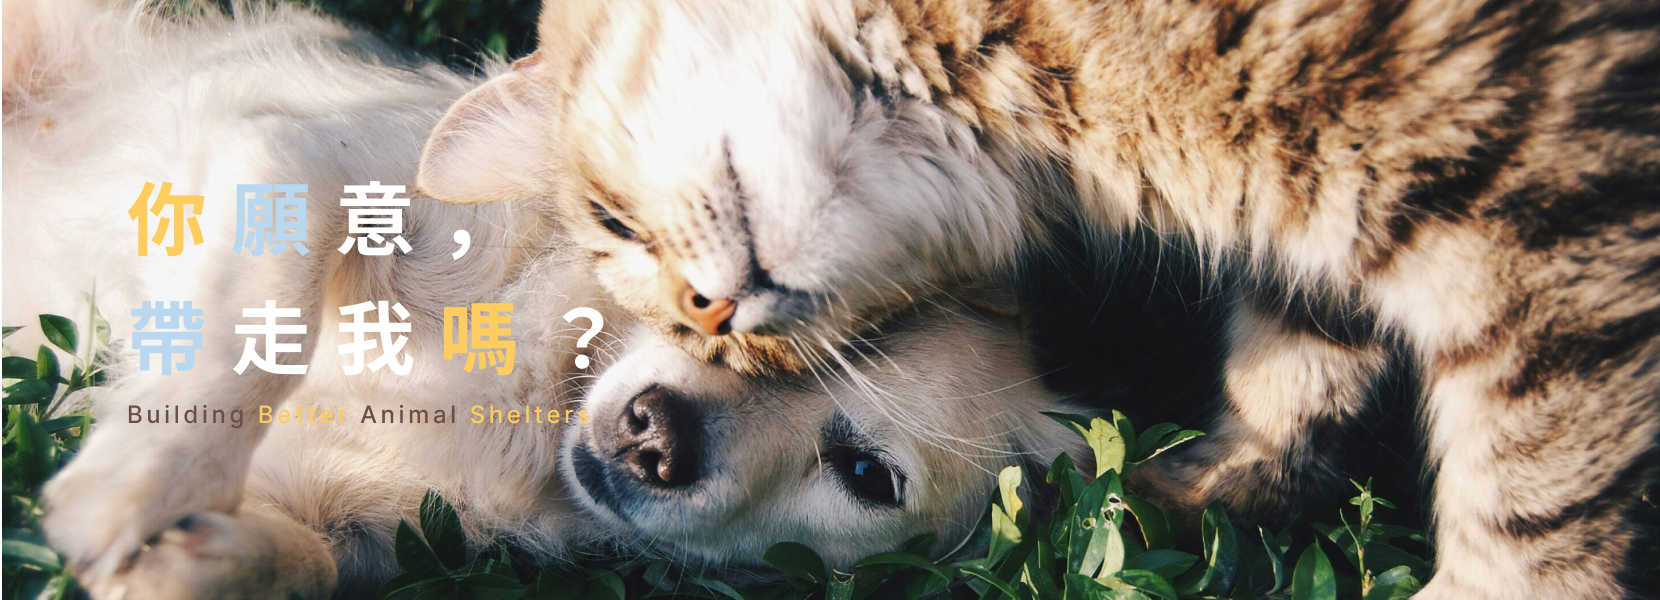
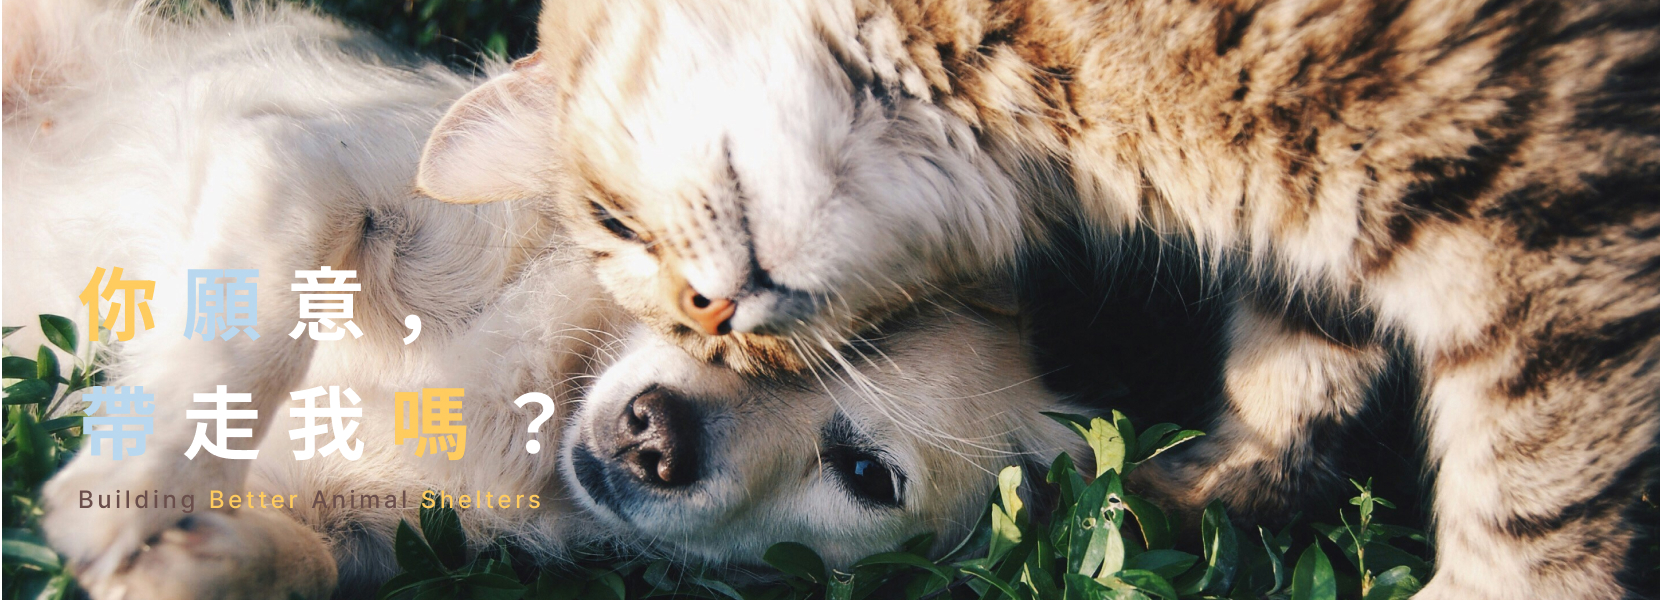
輪播更新

diff --git a/public/index.html b/public/index.html
@@ -4,6 +4,7 @@
 <head>
   <meta charset="UTF-8">
   <meta name="viewport" content="width=device-width, initial-scale=1.0">
+  <link rel="stylesheet" href="https://cdn.jsdelivr.net/npm/swiper@11/swiper-bundle.min.css" />
   <link rel="stylesheet" href="https://maxcdn.bootstrapcdn.com/bootstrap/3.3.6/css/bootstrap.min.css"
     integrity="sha384-1q8mTJOASx8j1Au+a5WDVnPi2lkFfwwEAa8hDDdjZlpLegxhjVME1fgjWPGmkzs7" crossorigin="anonymous">
   <script src="https://ajax.googleapis.com/ajax/libs/jquery/1.11.1/jquery.min.js"></script>
@@ -21,6 +22,7 @@
   <link rel="stylesheet" href="/css/index-commend.css">
   <link rel="stylesheet" href="../css/index_service.css">
   <link rel="stylesheet" href="../css/carousel.css">
+  <link rel="stylesheet" href="../css/carousel2.css">
   <title>首頁</title>
 </head>
 
@@ -136,81 +138,23 @@
       </div>
     </nav>
   </header>
-<<<<<<< HEAD
- <!-- 輪播carousel-->
- <div id="myCarousel" class="carousel slide myCarousel w-auto carousel-img p-0" data-interval="false" data-ride="carousel">
-  <h1></h1>
-  <ol class="carousel-indicators ">
-    <li data-target="#myCarousel" data-slide-to="0" class="active first"></li>
-    <li data-target="#myCarousel" class="first" data-slide-to="1"></li>
-    <li data-target="#myCarousel"  class="first" data-slide-to="2"></li>
-  </ol>
-  <!-- Carousel items -->
-  <div class="carousel-inner">
-    <div class="active item">
-      <!--put img inside itens like this-->
-      <img src="../images/Group 8988.jpg" alt="...">
-      <div class="container">
-        <div class="carousel-caption">
-        </div>
-      </div>
-    </div>
-    <div class="item">
-      <img src="../images/Group 8988.jpg" alt="...">
-      <div class="container">
-        <div class="carousel-caption">
-        </div>
-      </div>
-    </div>
-    <div class="item">
-      <img src="../images/Group 8988.jpg" alt="...">
-      <div class="container">
-        <div class="carousel-caption">
-=======
   <!-- 輪播carousel-->
-  <div id="myCarousel" class="carousel slide myCarousel w-auto carousel-img p-0" data-interval="false"
-    data-ride="carousel">
-    <ol class="carousel-indicators ">
-      <li data-target="#myCarousel" data-slide-to="0" class="active first"></li>
-      <li data-target="#myCarousel" class="first" data-slide-to="1"></li>
-      <li data-target="#myCarousel" class="first" data-slide-to="2"></li>
-    </ol>
-    <!-- Carousel items -->
-    <div class="carousel-inner">
-      <div class="active item">
-        <!--put img inside itens like this-->
-        <img src="../images/Rectangle 4491.jpg" alt="...">
-        <div class="container">
-          <div class="carousel-caption">
-          </div>
+  <section id="carousel">
+    <div class="body">
+      <div class="swiper mySwiper">
+        <div class="swiper-wrapper">
+          <div class="swiper-slide"><img src="/images/Group 8988.jpg" alt=""></div>
+          <div class="swiper-slide"><img src="/images/Group 8988.jpg" alt=""></div>
+          <div class="swiper-slide"><img src="/images/Group 8988.jpg" alt=""></div>
+          <div class="swiper-slide"><img src="/images/Group 8988.jpg" alt=""></div>
+          <div class="swiper-slide"><img src="/images/Group 8988.jpg" alt=""></div>
         </div>
-      </div>
-      <div class="item">
-        <img src="../images/Rectangle 4491.jpg" alt="...">
-        <div class="container">
-          <div class="carousel-caption">
-          </div>
-        </div>
-      </div>
-      <div class="item">
-        <img src="../images/Rectangle 4491.jpg" alt="...">
-        <div class="container">
-          <div class="carousel-caption">
-          </div>
->>>>>>> 6e6a1c55efd95baf8796197c42237851f612e3e8
-        </div>
+        <div class="swiper-button swiper-button-next"></div>
+        <div class="swiper-button swiper-button-prev"></div>
+        <div class="swiper-pagination"></div>
       </div>
     </div>
-    <hr class="transition-timer-carousel-progress-bar" />
-    <a class="bar-left carousel-control" href="#myCarousel" role="button" data-slide="prev">
-      <span class="glyphicon glyphicon-chevron-left" aria-hidden="true"></span>
-      <span class="sr-only">Previous</span>
-    </a>
-    <a class="right carousel-control" href="#myCarousel" role="button" data-slide="next">
-      <span class="glyphicon glyphicon-chevron-right" aria-hidden="true"></span>
-      <span class="sr-only">Next</span>
-    </a>
-  </div>
+  </section>
   <!-- 服務項目 Service-->
   <section>
     <div class="container_card">
@@ -801,7 +745,8 @@
           <hr class="footerHr">
           <ol class="icon justify-content-center  ">
             <li>
-              <a href="https://www.facebook.com/profile.php?id=100090898966387" class="footerLink justify-content-center">
+              <a href="https://www.facebook.com/profile.php?id=100090898966387"
+                class="footerLink justify-content-center">
                 <svg xmlns="http://www.w3.org/2000/svg"
                   viewBox="0 0 512 512"><!--!Font Awesome Free 6.5.2 by @fontawesome - https://fontawesome.com License - https://fontawesome.com/license/free Copyright 2024 Fonticons, Inc.-->
                   <path
@@ -810,7 +755,8 @@
               </a>
             </li>
             <li>
-              <a href="https://www.instagram.com/cookie_chocolate_0228/?hl=zh-tw" class="footerLink justify-content-center">
+              <a href="https://www.instagram.com/cookie_chocolate_0228/?hl=zh-tw"
+                class="footerLink justify-content-center">
                 <svg xmlns="http://www.w3.org/2000/svg"
                   viewBox="0 0 448 512"><!--!Font Awesome Free 6.5.2 by @fontawesome - https://fontawesome.com License - https://fontawesome.com/license/free Copyright 2024 Fonticons, Inc.-->
                   <path
@@ -819,7 +765,8 @@
               </a>
             </li>
             <li>
-              <a href="https://store.line.me/stickershop/product/1043153/zh-Hant" class="footerLink justify-content-center">
+              <a href="https://store.line.me/stickershop/product/1043153/zh-Hant"
+                class="footerLink justify-content-center">
                 <svg xmlns="http://www.w3.org/2000/svg"
                   viewBox="0 0 512 512"><!--!Font Awesome Free 6.5.2 by @fontawesome - https://fontawesome.com License - https://fontawesome.com/license/free Copyright 2024 Fonticons, Inc.-->
                   <path
@@ -858,6 +805,8 @@
   <script src="https://maxcdn.bootstrapcdn.com/bootstrap/3.3.6/js/bootstrap.min.js"
     integrity="sha384-0mSbJDEHialfmuBBQP6A4Qrprq5OVfW37PRR3j5ELqxss1yVqOtnepnHVP9aJ7xS"
     crossorigin="anonymous"></script>
+  <script src="https://cdn.jsdelivr.net/npm/swiper@11/swiper-bundle.min.js"></script>
+  <script src="../js/carousel2.js"></script>
   <script src="../js/carousel.js"></script>
   <script src="https://cdn.jsdelivr.net/npm/bootstrap@5.3.3/dist/js/bootstrap.bundle.min.js"
     integrity="sha384-YvpcrYf0tY3lHB60NNkmXc5s9fDVZLESaAA55NDzOxhy9GkcIdslK1eN7N6jIeHz"

diff --git a/css/carousel2.css b/css/carousel2.css
@@ -1,0 +1,91 @@
+:root {
+  --black: #000000;
+  --white: #ffffff;
+  --beige: #fef9f2;
+  --brown: #967b4a;
+  --reddish-brown: #895e3c;
+  --khaki: #d7b67a;
+  --bean-paste: #d3ad9a;
+  --yellow: #fecc5f;
+  --light-yellow: #faeed1;
+  --creamy-yellow: #fdf7e4;
+  --gray: #ebebeb;
+  --dark-gray: #ebe6d4;
+  --bright-gary: #f5ebd9;
+  --light-gray: #dbd2c6;
+  --deep-gray: #89837c;
+  --light-pink: #fce9d4;
+  --red: #e83d3d;
+  --light-blue: #b9d8ef;
+  --deep-blue: #292f36;
+  --dark-green: #018786;
+  --pink: #f29999;
+  --blue: #427d9d;
+  --green: #b6c12f;
+  --border-color: #895e3c;
+  --font-family: "Noto Sans TC", sans-serif;
+  --font-size-h1: 2rem; /* h1 標題文字大小 ,32px*/
+  --font-size-h2: 1.8rem; /* h2 標題文字大小,28.8px */
+  --font-size-h3: 1.5rem; /* h3 標題文字大小,24px  */
+  --font-size-h4: 1.25rem; /* h4 標題文字大小,20px */
+  --font-size-p: 16px; /* 段落文字大小 */
+  --bg-color: #fdf7e4;
+}
+
+#carousel {
+  position: relative;
+  height: 50rem;
+  width: 100%;
+  margin: 3rem 0rem;
+}
+
+#carousel .body {
+  background: #eee;
+  font-family: Helvetica Neue, Helvetica, Arial, sans-serif;
+  font-size: 14px;
+  color: #000;
+  margin: 0;
+  padding: 0;
+  height: 100%;
+  width: 80%;
+  margin: auto;
+}
+
+#carousel .swiper {
+  width: 100%;
+  height: 100%;
+}
+
+#carousel .swiper-slide {
+  width: 100%;
+  height: 100%;
+}
+
+#carousel .swiper-slide img {
+  display: block;
+  width: 100%;
+  height: 100%;
+  object-fit: cover;
+}
+
+#carousel .swiper-button{
+  color: var(--border-color);
+  font-weight: bolder;
+}
+#carousel .swiper-pagination{
+  color: white;
+  font-size: 1.5rem;
+  padding-bottom: 1.25rem;
+}
+@media screen and (max-width: 414px) {
+  #carousel {
+    height: 25rem;
+  }
+  
+  #carousel .body {
+    width: 100%;
+  }
+  #carousel .swiper-slide img {
+    width: auto;
+  }
+}

diff --git a/js/carousel2.js b/js/carousel2.js
@@ -1,0 +1,10 @@
+var swiper = new Swiper(".mySwiper", {
+  pagination: {
+    el: ".swiper-pagination",
+    type: "fraction",
+  },
+  navigation: {
+    nextEl: ".swiper-button-next",
+    prevEl: ".swiper-button-prev",
+  },
+});
